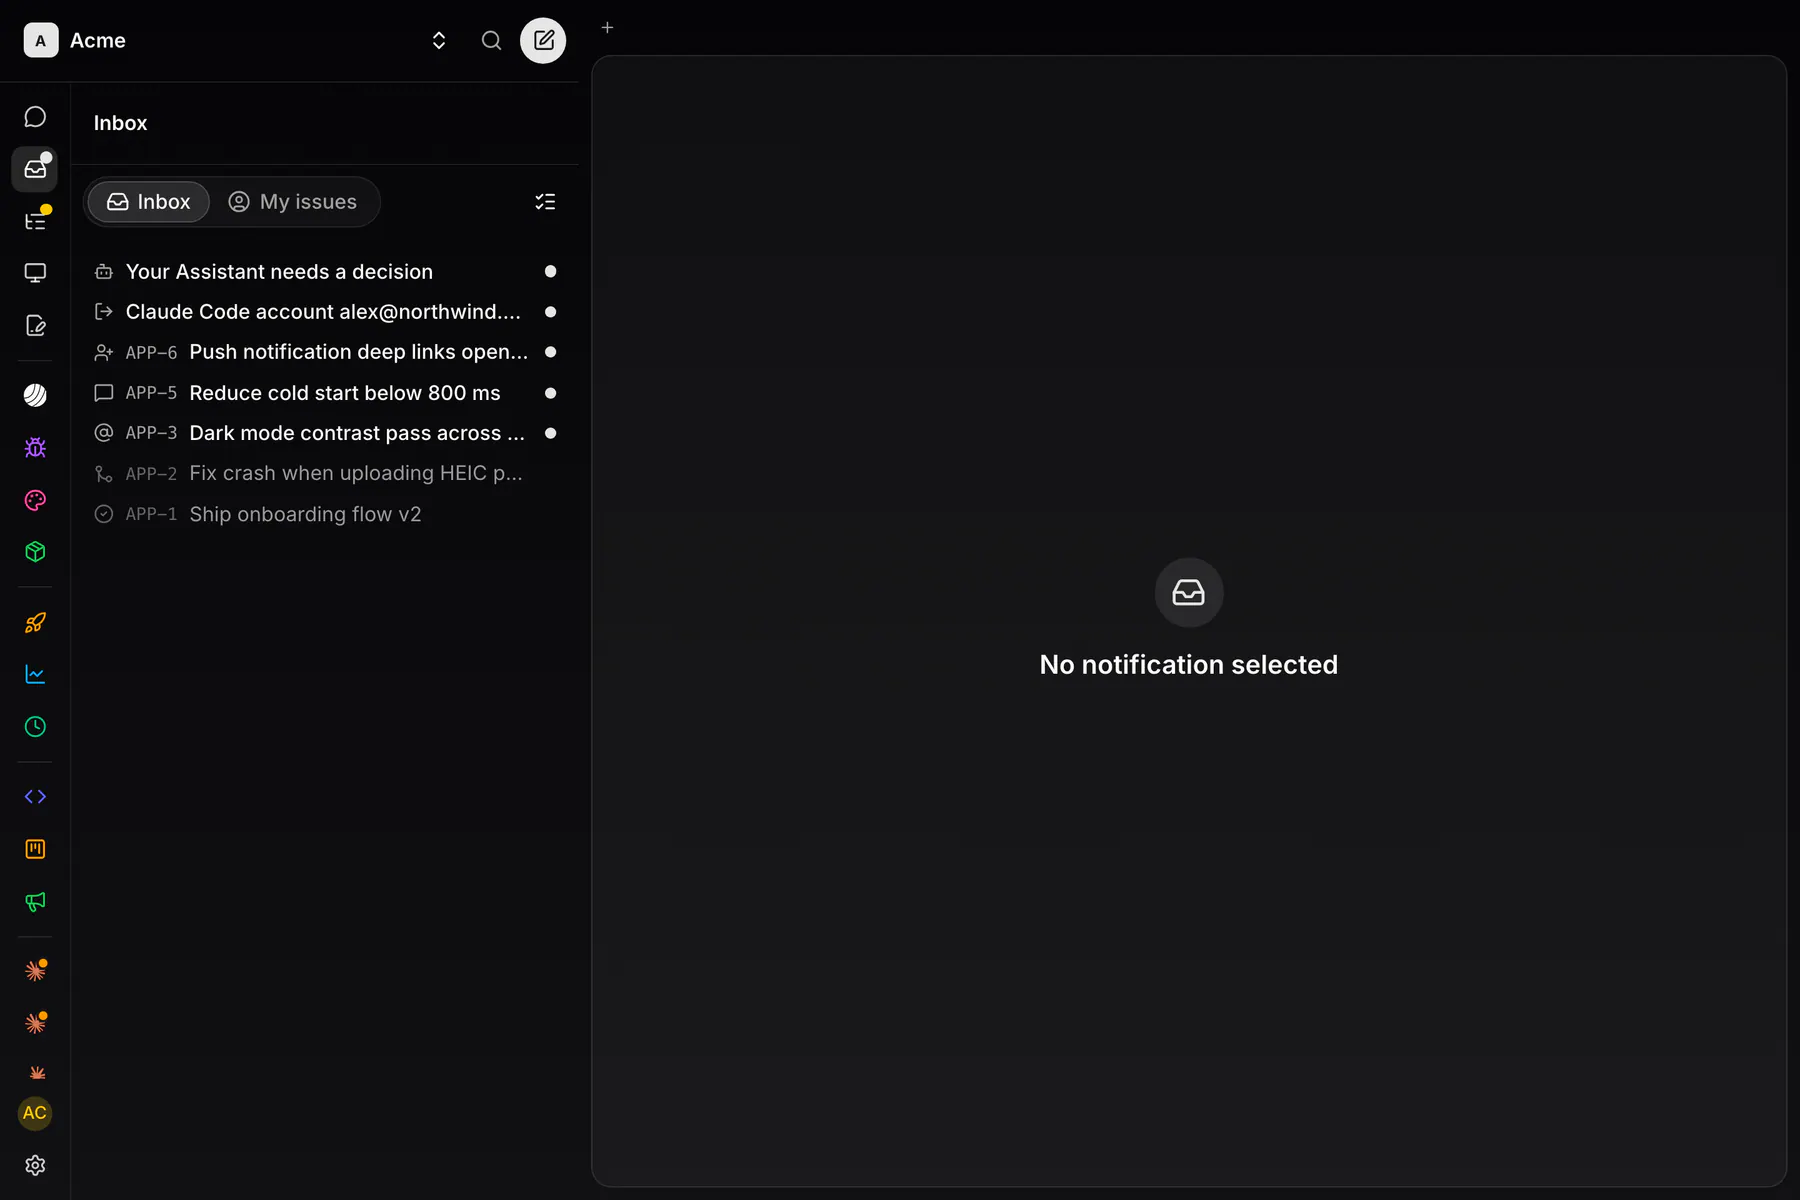
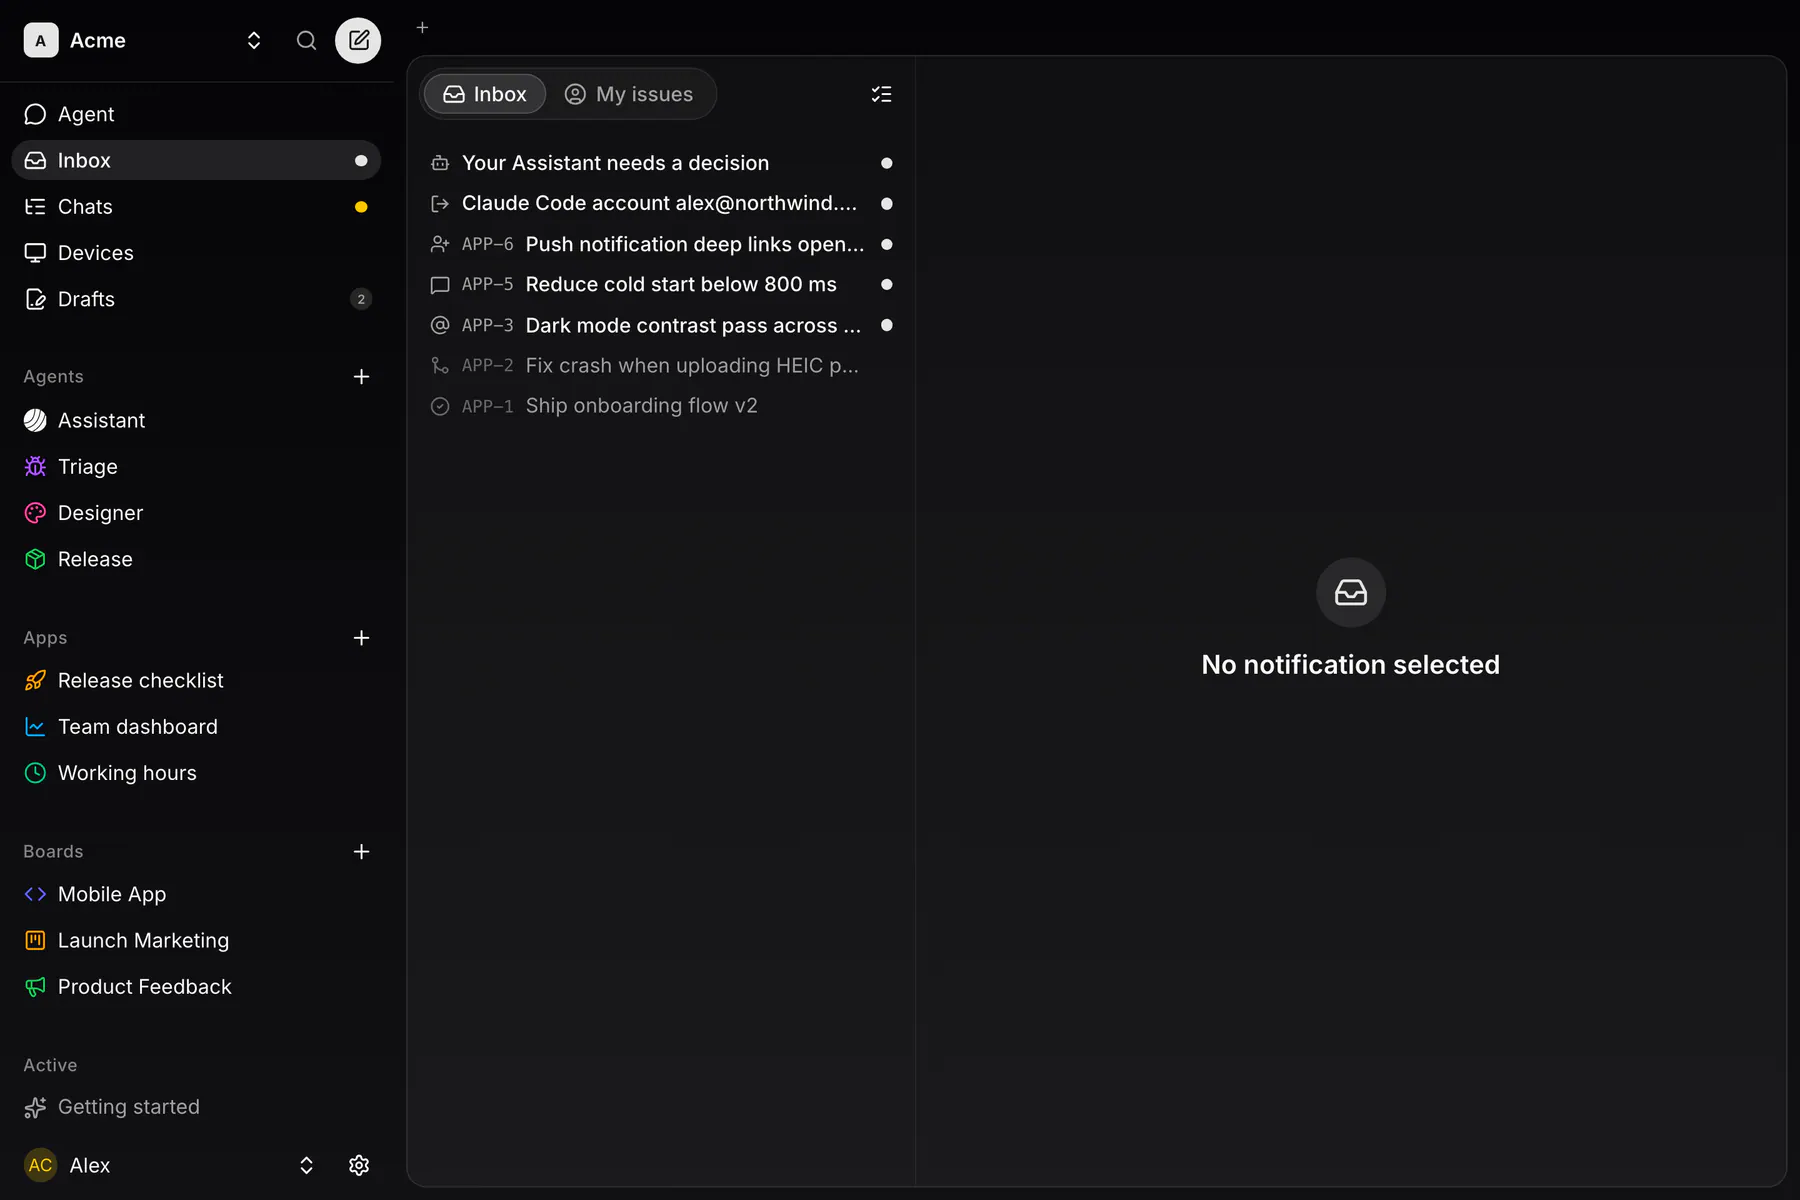
Web Inbox shot, views note and changelog for the second-sidebar Inbox (#EXP-1672)

diff --git a/apps/web/src/lib/changelog.ts b/apps/web/src/lib/changelog.ts
@@ -25,6 +25,14 @@ export interface ChangelogEntry {
 // Newest first.
 export const CHANGELOG: ChangelogEntry[] = [
   {
+    id: `2026-11-03-inbox-keeps-sidebar`,
+    date: `2026-11-03`,
+    title: `The Inbox keeps the sidebar`,
+    summary: `On the web, opening the Inbox no longer folds the sidebar into icons: the notifications sit beside it, like in the desktop app.`,
+    body: `- **Full sidebar**: the Inbox keeps the whole sidebar; its list is a column inside the page, with the selected notification to its right.
+- **Resizable**: drag the list's right edge to make it wider or narrower.`,
+  },
+  {
     id: `2026-11-03-e2e-encrypted-wording`,
     date: `2026-11-03`,
     title: `End-to-end encrypted, in plain words`,

diff --git a/apps/web/src/routeTree.gen.ts b/apps/web/src/routeTree.gen.ts
@@ -3189,3 +3189,13 @@ const rootRouteChildren: RootRouteChildren = {
 export const routeTree = rootRouteImport
   ._addFileChildren(rootRouteChildren)
   ._addFileTypes<FileRouteTypes>()
+
+import type { getRouter } from './router.tsx'
+import type { startInstance } from './start.tsx'
+declare module '@tanstack/react-start' {
+  interface Register {
+    ssr: true
+    router: Awaited<ReturnType<typeof getRouter>>
+    config: Awaited<ReturnType<typeof startInstance.getOptions>>
+  }
+}

diff --git a/apps/desktop/crates/ui/src/changelog.rs b/apps/desktop/crates/ui/src/changelog.rs
@@ -46,6 +46,17 @@ pub(crate) struct ChangelogEntry {
 /// The head entry of the web `CHANGELOG` — see the module docs: this is a
 /// verbatim mirror, gated by a web-side test.
 pub(crate) const LATEST: ChangelogEntry = ChangelogEntry {
+    id: "2026-11-03-inbox-keeps-sidebar",
+    date: "2026-11-03",
+    title: "The Inbox keeps the sidebar",
+    summary: "On the web, opening the Inbox no longer folds the sidebar into icons: the notifications sit beside it, like in the desktop app.",
+    body: r#"- **Full sidebar**: the Inbox keeps the whole sidebar; its list is a column inside the page, with the selected notification to its right.
+- **Resizable**: drag the list's right edge to make it wider or narrower."#,
+};
+
+/// An earlier head entry, kept so the mirror's history reads in place.
+#[allow(dead_code)]
+const PREVIOUS_191: ChangelogEntry = ChangelogEntry {
     id: "2026-11-03-e2e-encrypted-wording",
     date: "2026-11-03",
     title: "End-to-end encrypted, in plain words",
